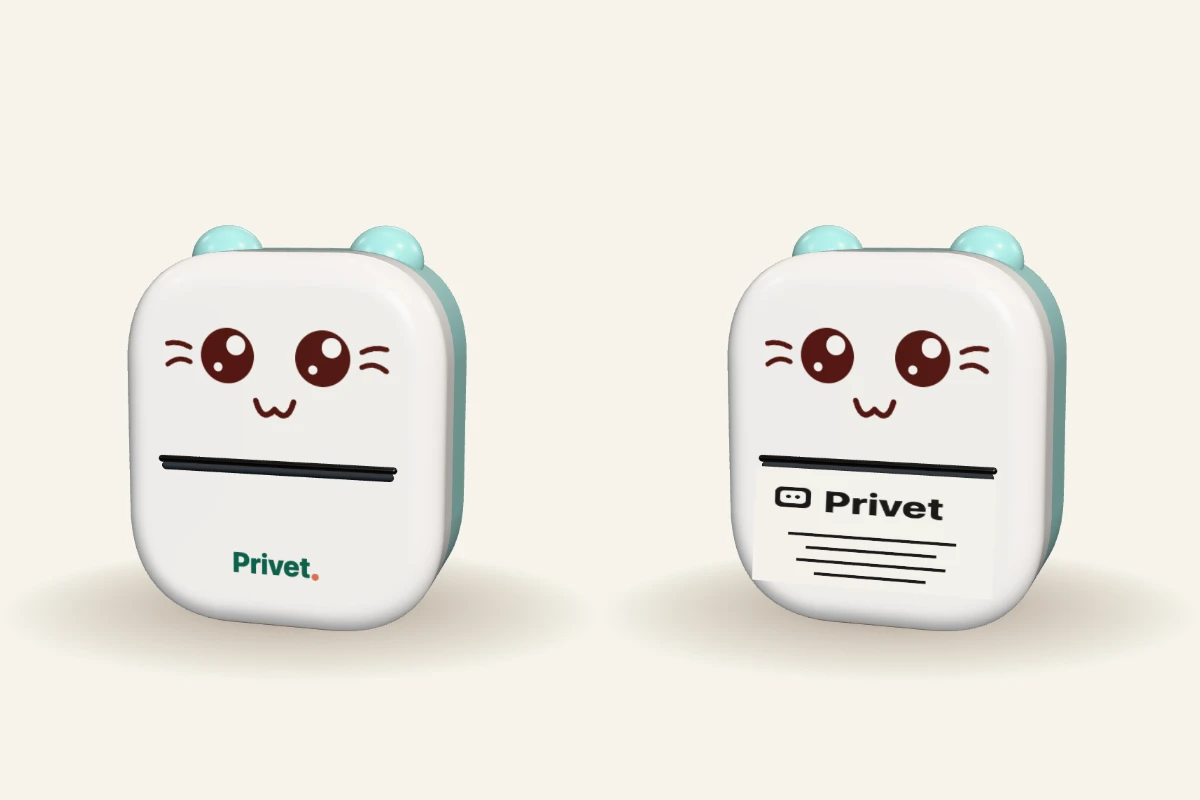
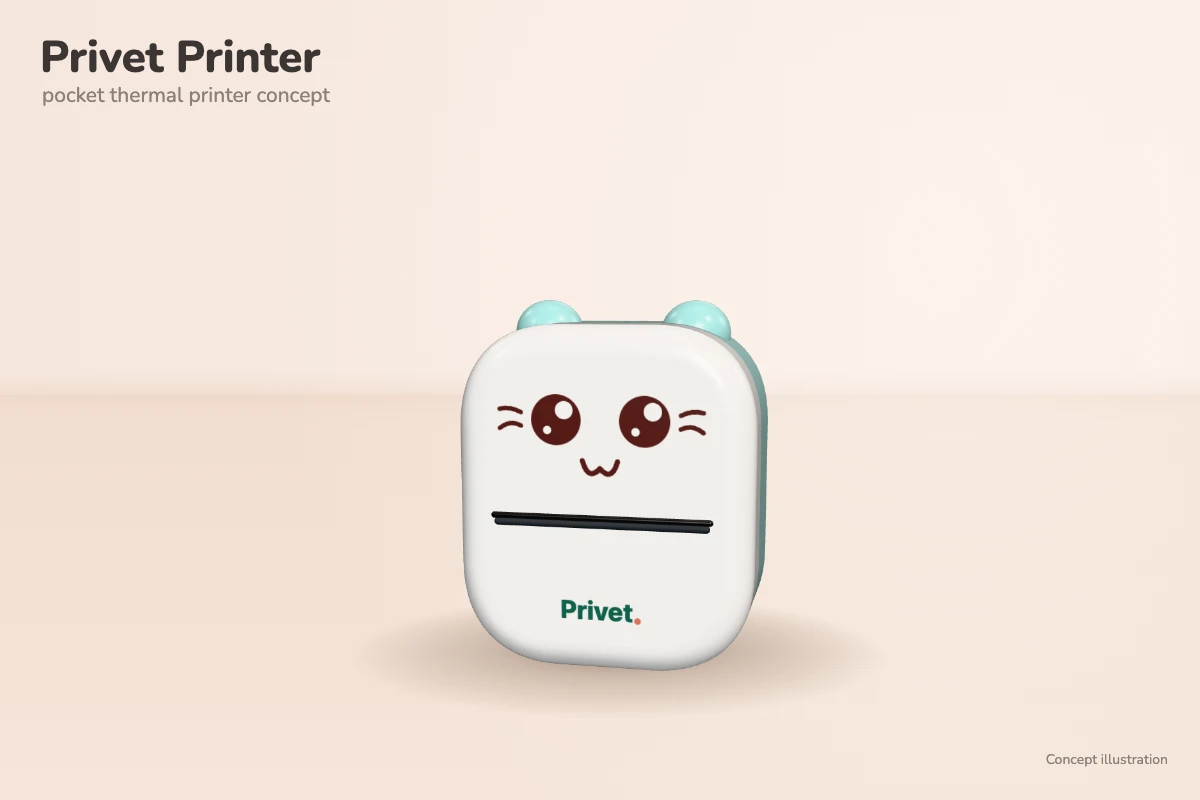
Printer image update

diff --git a/README.md b/README.md
@@ -69,7 +69,7 @@ On return, the app waits boundedly for any already-submitted native write, check
 
 The native app can print learning cards on a 57 mm Bluetooth thermal "cat" printer (tested on an SC03h; the same protocol is used by GB01–GB03, GT01, MX05–MX11 and YT01). Connect it in **Settings → Printer** (disconnect it from any other app first: the printer takes one connection at a time). While it is connected, print buttons appear on revealed vocabulary words (a word card), the end-of-lesson summary (a practice strip with fill-in-the-blank items, trace & write and upside-down answers), Profile (a progress receipt with streak, words, accuracy and weekly XP) and Settings → Printer (word of the day, test page). Each print shows a preview, a Light/Normal/Dark darkness setting and rows-sent progress with Cancel. Like the companions, the app remembers the printer and reconnects to it by itself while it is open (Disconnect turns that off), and home offers a nearby printer in a "printer found" card with a 3D model of it. The printer and a companion can be connected at the same time. See [docs/thermal-printer.md](docs/thermal-printer.md) for the protocol, connection rules, how the cards are built and what has been verified.
 
-[![Privet thermal printer concept body: before connecting, and printing a Privet strip](public/images/printer-concept.webp)](public/images/printer-concept.webp)
+[![Privet Printer pocket thermal printer concept body with its cat face and Privet wordmark](public/images/printer-concept.webp)](public/images/printer-concept.webp)
 
 The pictured Privet body (white front with the printed cat face and the Privet wordmark, mint shell and ears) is a concept, rendered from the app's 3D model; the app works with an ordinary SC03h-type printer as it is.
 
@@ -79,7 +79,7 @@ White and coral explorations of the optional desk companion, showing a possible 
 
 | Warm white | Soft coral | Privet Mini | Privet printer |
 | --- | --- | --- | --- |
-| [![White desk companion concept with enclosed and open rear views](public/images/companion-white.webp)](public/images/companion-white.webp) | [![Coral desk companion concept with enclosed and open rear views](public/images/companion-coral.webp)](public/images/companion-coral.webp) | [![Privet Mini keychain companion concept with its key ring](public/images/companion-mini.webp)](public/images/companion-mini.webp) | [![Privet thermal printer concept body, before connecting and printing a Privet strip](public/images/printer-concept.webp)](public/images/printer-concept.webp) |
+| [![White desk companion concept with enclosed and open rear views](public/images/companion-white.webp)](public/images/companion-white.webp) | [![Coral desk companion concept with enclosed and open rear views](public/images/companion-coral.webp)](public/images/companion-coral.webp) | [![Privet Mini keychain companion concept with its key ring](public/images/companion-mini.webp)](public/images/companion-mini.webp) | [![Privet Printer pocket thermal printer concept body with its cat face and Privet wordmark](public/images/printer-concept.webp)](public/images/printer-concept.webp) |
 
 Illustrations supplied by the project creator, except the printer, which is rendered from the app's own 3D model (the one in its "printer found" card). The images live in `public/images/`; the two desk companion ones also appear in the website’s companion gallery. On the website, click an illustration to open a same-page image viewer and switch between Warm white and Soft coral. Close with the close button, Escape, or the backdrop; left/right arrow keys also switch images. README image links open the original files.
 

diff --git a/docs/thermal-printer.md b/docs/thermal-printer.md
@@ -4,9 +4,9 @@ The native iOS app prints learning cards on a cheap 57 mm Bluetooth LE thermal "
 
 Tested on an **SC03h** printer (advertised as `SC03h-438F`).
 
-[![Privet thermal printer concept body: before connecting, and printing a Privet strip](../public/images/printer-concept.webp)](../public/images/printer-concept.webp)
+[![Privet Printer pocket thermal printer concept body with its cat face and Privet wordmark](../public/images/printer-concept.webp)](../public/images/printer-concept.webp)
 
-*Privet concept body for an SC03h-type printer, rendered from the app's 3D model: before connecting (left) and printing (right). The app works with the printer as it is; the Privet body is a concept.* The same protocol is used by GB01, GB02, GB03, GT01, MX05, MX06, MX08, MX10, MX11 and YT01 printers; only the SC03h has been tried.
+*Privet concept body for an SC03h-type printer, rendered from the app's 3D model. The app works with the printer as it is; the Privet body is a concept.* The same protocol is used by GB01, GB02, GB03, GT01, MX05, MX06, MX08, MX10, MX11 and YT01 printers; only the SC03h has been tried.
 
 ## Using it
 
